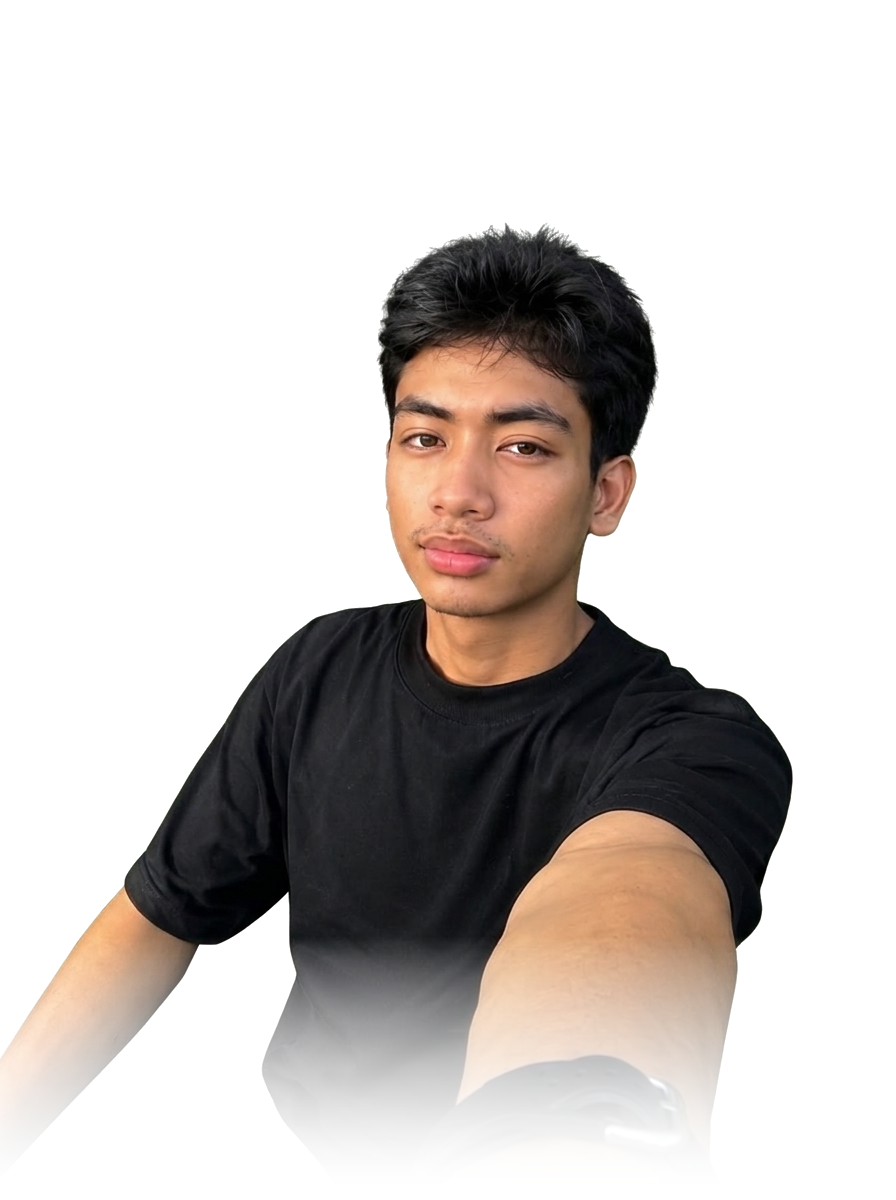
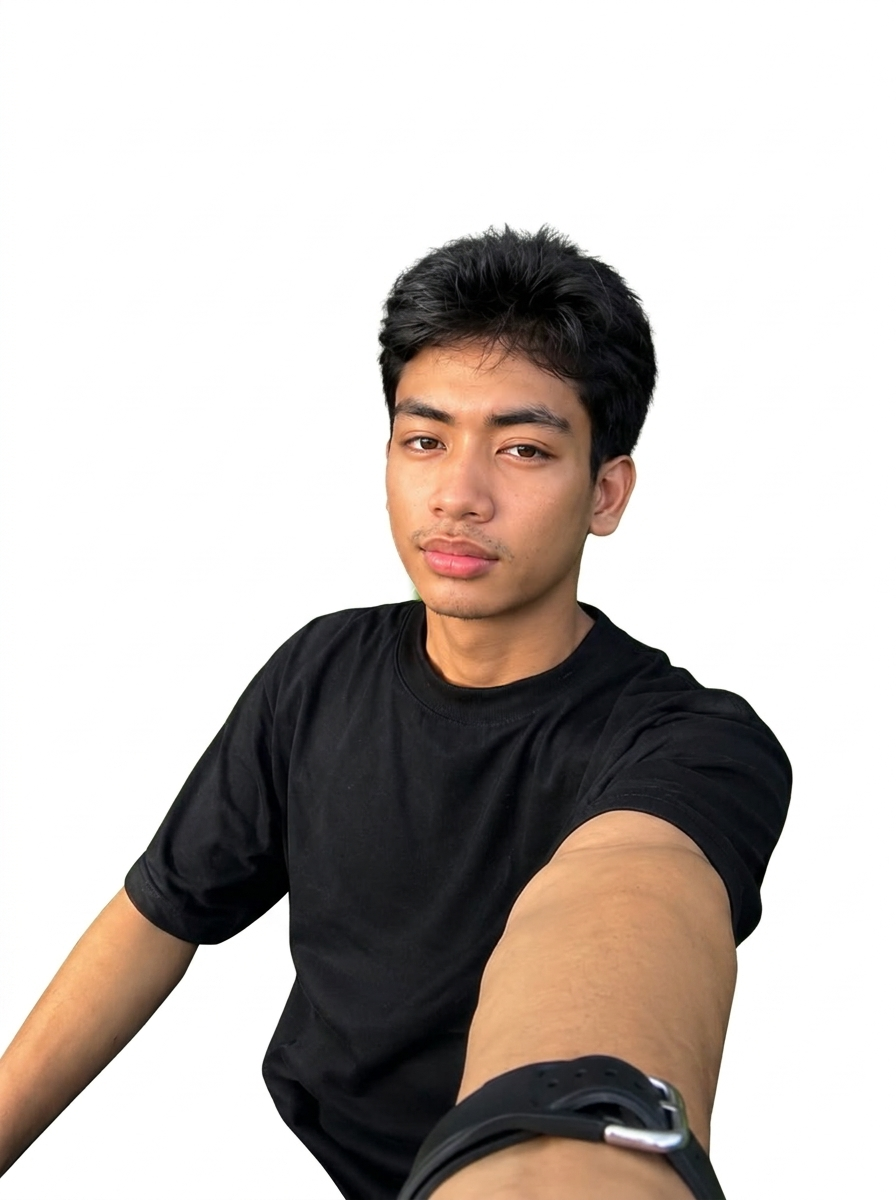
fix: restore 100% authentic real face and eyes from original photo, enlarge hero portrait

diff --git a/components/Hero.tsx b/components/Hero.tsx
@@ -44,23 +44,49 @@ export default function Hero() {
       </div>
 
       {/* Hero Stage: Giant "PORTFOLIO" + Cutout Portrait Layering */}
-      <div className="relative max-w-7xl mx-auto px-4 sm:px-6 lg:px-8 w-full flex-1 flex flex-col justify-center my-auto">
+      <div className="relative max-w-7xl mx-auto px-4 sm:px-6 lg:px-8 w-full flex-1 flex flex-col justify-end lg:min-h-[780px] my-auto">
         {/* Layer 1: Giant Editorial Background Typography ("PORTFOLIO") */}
-        <div className="absolute inset-x-0 top-2 sm:top-0 z-0 flex justify-center pointer-events-none select-none">
-          <h1 className="text-[20vw] sm:text-[18vw] font-black uppercase tracking-tighter text-[#E50914] leading-none opacity-90 text-center font-display drop-shadow-[0_15px_35px_rgba(229,9,20,0.35)]">
+        <div className="absolute inset-x-0 top-0 sm:top-2 z-0 flex justify-center pointer-events-none select-none">
+          <h1 className="text-[22vw] sm:text-[20vw] lg:text-[18vw] font-black uppercase tracking-tighter text-[#E50914] leading-none opacity-90 text-center font-display drop-shadow-[0_15px_35px_rgba(229,9,20,0.35)]">
             PORTFOLIO
           </h1>
         </div>
 
-        {/* Layer 2: 3-Column Layout: Left Narrative, Center Cutout Overlapping "PORTFOLIO", Right Stats */}
-        <div className="relative z-10 grid grid-cols-1 lg:grid-cols-12 gap-8 items-end pt-12 sm:pt-20">
-          {/* Left Column: Personal Intro (4 cols) */}
-          <div className="lg:col-span-4 space-y-6 pb-6 text-left">
+        {/* Layer 2: Dominant Center Portrait Overlapping "PORTFOLIO" Text */}
+        <div className="hidden lg:flex absolute left-1/2 -translate-x-1/2 bottom-0 z-20 justify-center items-end pointer-events-none">
+          <div
+            className="relative w-[580px] xl:w-[680px] 2xl:w-[740px] aspect-[896/1200] max-h-[760px] xl:max-h-[820px] transition-transform duration-200 ease-out"
+            style={{
+              transform: `translateX(${mousePos.x * 14}px) translateY(${mousePos.y * 7}px)`,
+            }}
+          >
+            {/* Radial ambient glow behind portrait */}
+            <div className="absolute inset-0 bg-[#FF2A4D]/20 blur-3xl rounded-full scale-90 -z-10" />
+
+            {/* The Authentic Cutout Portrait (Real face & eyes 100% preserved) */}
+            <Image
+              src="/images/portrait-cutout.png"
+              alt="Mon Aaron Marcelo - Full-Stack Developer & Civic Tech Architect"
+              fill
+              priority
+              className="object-contain object-bottom drop-shadow-[0_25px_60px_rgba(0,0,0,0.95)]"
+              sizes="(max-width: 1280px) 680px, 740px"
+            />
+
+            {/* Bottom fade blending seamlessly into section background */}
+            <div className="absolute inset-x-0 bottom-0 h-28 bg-gradient-to-t from-[#07070A] via-[#07070A]/80 to-transparent pointer-events-none" />
+          </div>
+        </div>
+
+        {/* Layer 3: Left Narrative + Right Metrics (Clean Overlap Grid) */}
+        <div className="relative z-30 grid grid-cols-1 lg:grid-cols-12 gap-8 items-end pt-12 sm:pt-20 pb-4">
+          {/* Left Column: Personal Intro (5 cols on lg) */}
+          <div className="lg:col-span-4 xl:col-span-4 space-y-6 pb-6 text-left">
             <div className="space-y-1">
-              <span className="text-[#FF2A4D] font-serif italic text-2xl sm:text-3xl tracking-wide block">
+              <span className="text-[#FF2A4D] font-serif italic text-3xl sm:text-4xl tracking-wide block">
                 Hello, I&apos;m
               </span>
-              <h2 className="text-4xl sm:text-5xl xl:text-6xl font-black text-white tracking-tight uppercase leading-[0.95] drop-shadow-lg">
+              <h2 className="text-4xl sm:text-5xl xl:text-6xl font-black text-white tracking-tight uppercase leading-[0.95] drop-shadow-2xl">
                 MON AARON
                 <br />
                 <span className="text-transparent bg-clip-text bg-gradient-to-r from-white via-gray-100 to-[#FF2A4D]">
@@ -78,8 +104,8 @@ export default function Hero() {
               </p>
             </div>
 
-            <p className="text-xs sm:text-sm text-gray-300/90 leading-relaxed max-w-sm font-normal">
-              I design and build robust, user-focused web platforms that combine high-integrity database architectures with cinematic frontends. Lead architect of{" "}
+            <p className="text-xs sm:text-sm text-gray-300 leading-relaxed max-w-sm font-normal">
+              I design and build robust, user-focused web platforms combining high-integrity relational databases with cinematic frontends. Lead architect of{" "}
               <strong className="text-white font-semibold underline decoration-[#FF2A4D] decoration-2 underline-offset-4">
                 One Palayan-Kalinga Hub
               </strong>
@@ -89,7 +115,7 @@ export default function Hero() {
             {/* Availability Pill */}
             <div className="flex items-center gap-2 pt-1 text-xs font-mono text-gray-400">
               <span className="w-2 h-2 rounded-full bg-[#FF2A4D]" />
-              <span className="text-gray-300">AVAILABLE WORLDWIDE &amp; HYBRID</span>
+              <span className="text-gray-300">AVAILABLE FOR FREELANCE &amp; CIVIC TECH</span>
             </div>
 
             {/* CTAs */}
@@ -111,34 +137,27 @@ export default function Hero() {
             </div>
           </div>
 
-          {/* Center Column: Cutout Portrait Layered Directly OVER "PORTFOLIO" Text (4 cols) */}
-          <div className="lg:col-span-4 flex justify-center items-end relative -mb-6 z-20">
-            <div
-              className="relative w-[340px] sm:w-[420px] md:w-[460px] aspect-[896/1200] max-h-[640px] pointer-events-none transition-transform duration-200 ease-out"
-              style={{
-                transform: `translateX(${mousePos.x * 12}px) translateY(${mousePos.y * 6}px)`,
-              }}
-            >
-              {/* Radial ambient glow behind portrait */}
-              <div className="absolute inset-0 bg-[#FF2A4D]/15 blur-3xl rounded-full scale-90 -z-10" />
-
-              {/* The Authentic Cutout Portrait */}
+          {/* Mobile Center Portrait (Visible only below lg) */}
+          <div className="lg:hidden flex justify-center items-end relative z-20 my-2">
+            <div className="relative w-[340px] sm:w-[420px] aspect-[896/1200] max-h-[580px] pointer-events-none">
+              <div className="absolute inset-0 bg-[#FF2A4D]/20 blur-2xl rounded-full scale-90 -z-10" />
               <Image
                 src="/images/portrait-cutout.png"
-                alt="Mon Aaron Marcelo - Full-Stack Developer"
+                alt="Mon Aaron Marcelo"
                 fill
                 priority
-                className="object-contain object-bottom drop-shadow-[0_20px_50px_rgba(0,0,0,0.9)]"
-                sizes="(max-width: 768px) 100vw, 460px"
+                className="object-contain object-bottom drop-shadow-2xl"
+                sizes="(max-width: 768px) 340px, 420px"
               />
-
-              {/* Bottom fade blending seamlessly into section background */}
-              <div className="absolute inset-x-0 bottom-0 h-32 bg-gradient-to-t from-[#07070A] via-[#07070A]/70 to-transparent pointer-events-none" />
+              <div className="absolute inset-x-0 bottom-0 h-24 bg-gradient-to-t from-[#07070A] via-[#07070A]/80 to-transparent pointer-events-none" />
             </div>
           </div>
 
-          {/* Right Column: Mission Statement & Vertical Metrics (4 cols) */}
-          <div className="lg:col-span-4 space-y-6 pb-6 text-left lg:text-right flex flex-col justify-end lg:items-end z-10">
+          {/* Center Spacer on Desktop */}
+          <div className="hidden lg:block lg:col-span-4 xl:col-span-4 h-1 pointer-events-none" />
+
+          {/* Right Column: Mission Statement & Vertical Metrics (4 cols on lg) */}
+          <div className="lg:col-span-4 xl:col-span-4 space-y-6 pb-6 text-left lg:text-right flex flex-col justify-end lg:items-end z-30">
             {/* Sparkle callout */}
             <div className="flex items-center lg:justify-end gap-2 text-xs font-mono text-gray-300">
               <Sparkles className="w-3.5 h-3.5 text-[#FF2A4D] shrink-0" />
